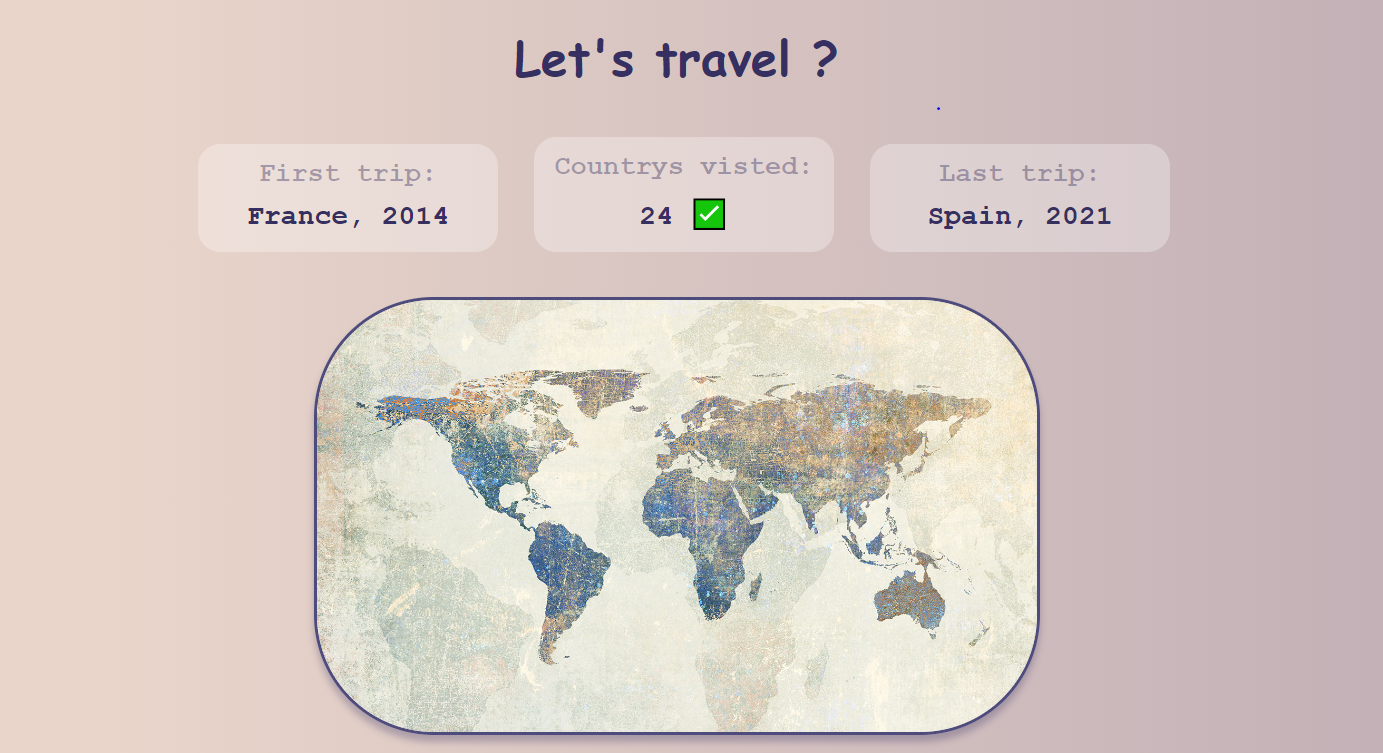
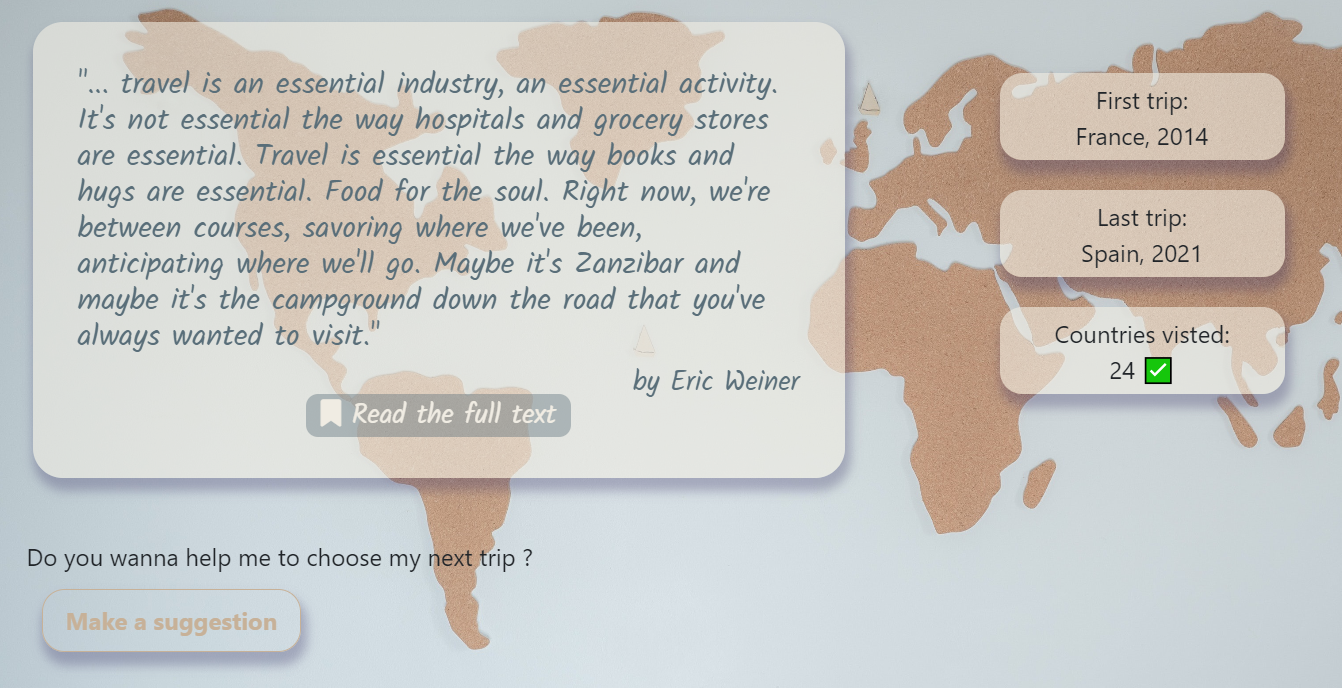
Project images update

diff --git a/projects.html b/projects.html
@@ -118,23 +118,24 @@
           </div>
         </div>
         <div class="col-md-6">
-          <h4 class="text-right">(t)here page</h4>
+          <h4 class="text-right">(t)here</h4>
           <p>
-            My first landing page <i class="fa-regular fa-face-laugh-beam"></i
-            ><br />
-            This page is quite simple, but I'm very proud of my first work.<br />
-            It is a journal where I keep track of the countries that I have
-            visited (I am trying to increase that list). The user can make a
-            suggestion for my next trip. <br /><br />
-            I have decided to improve this project, but the initial one will
-            remain available
+            My first landing page <i class="fa-regular fa-face-laugh-beam"></i>
+            This page is quite simple, but I'm very proud of my first work. It
+            is a journal where I keep track of the countries that I have visited
+            (I am trying to increase that list). The user can make a suggestion
+            for my next trip. The project taht you see here is an improvement,
+            currently under progress, but the initial one will remain available
             <a class="projects-link" href="/first-project.html" target="_blank">
               here </a
             >.
           </p>
           <ul class="build-with text-center">
+            <li class="list-technologies">Bootstrap</li>
             <li class="list-technologies">CSS</li>
+            <li class="list-technologies">GitHub</li>
             <li class="list-technologies">HTML</li>
+            <li class="list-technologies">JavaScript</li>
             <li class="list-technologies">VS Code</li>
           </ul>
         </div>
@@ -163,7 +164,7 @@
         </div>
 
         <div class="col-md-6 mt-4">
-          <img src="/images/weather.png" class="img-fluid" />
+          <img src="/images/weather.png" class="img-fluid rounded" />
           <div class="row text-center mt-2">
             <div class="col-sm-6">
               <a

diff --git a/first-project.html b/first-project.html
@@ -148,7 +148,7 @@
 
   <body>
     <div class="container">
-      <h1>Let's travel ?</h1>
+      <h1>Let's travel ...</h1>
       <hr />
       <h2>
         "... travel is an essential industry, an essential activity. It's not

diff --git a/src/style.css b/src/style.css
@@ -125,7 +125,9 @@ p {
 }
 
 .build-with {
-  max-width: 80%;
+  max-width: 85%;
+  font-size: 12px;
+  font-weight: 500;
 }
 
 .email-adress {
